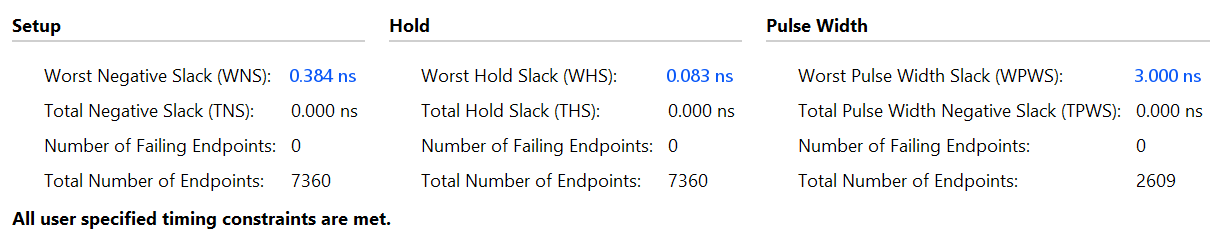
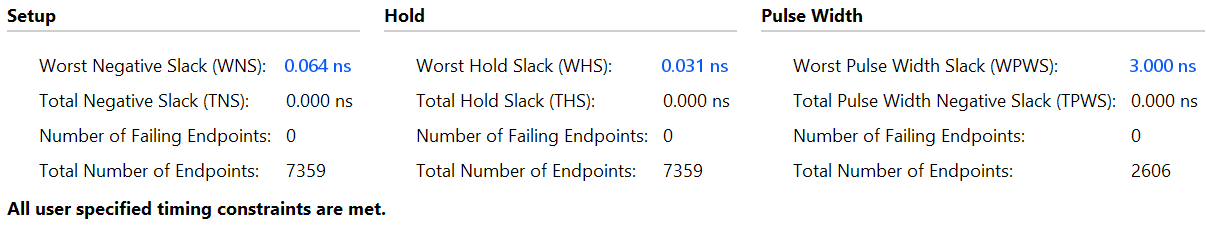
up fmax

diff --git a/contents/abstract/intisari.tex b/contents/abstract/intisari.tex
@@ -4,6 +4,6 @@
 
 \hspace{1cm}Metodologi penelitian meliputi perancangan RTL transmitter I2S menggunakan Verilog HDL, implementasi antarmuka register AXI4-Lite, integrasi ke dalam SoC MicroBlaze~V menggunakan AMD Vivado, pengembangan perangkat lunak bare-metal menggunakan AMD Vitis untuk konfigurasi register dan pengiriman data audio, serta verifikasi melalui simulasi RTL, pengamatan menggunakan osiloskop, dan pengujian perangkat keras menggunakan modul DAC PCM5102A.
 
-\hspace{1cm}Hasil penelitian menunjukkan bahwa IP transmitter I2S berhasil diintegrasikan ke dalam SoC berbasis MicroBlaze~V dan dikendalikan melalui antarmuka AXI4-Lite. Sistem mampu membangkitkan sinyal BCLK, WS, dan DATA yang memenuhi spesifikasi Philips I2S, mentransmisikan data audio stereo dengan benar, serta mendukung frekuensi sampling integer standar maupun non-standar dalam rentang operasi RTL menggunakan satu clock referensi melalui mekanisme \textit{phase accumulator}. Sistem SoC yang diimplementasikan pada FPGA Basys3 menggunakan 903 Slice, 2.435 LUT, 2.330 Flip-Flop, dan 32 BRAM dengan estimasi konsumsi daya total sebesar 0,209~W. Seluruh batasan timing pada clock sistem 100~MHz berhasil dipenuhi.
+\hspace{1cm}Hasil penelitian menunjukkan bahwa IP transmitter I2S berhasil diintegrasikan ke dalam SoC berbasis MicroBlaze~V dan dikendalikan melalui antarmuka AXI4-Lite. Sistem mampu membangkitkan sinyal BCLK, WS, dan DATA yang memenuhi spesifikasi Philips I2S, mentransmisikan data audio stereo dengan benar, serta mendukung frekuensi sampling integer standar maupun non-standar dalam rentang operasi RTL menggunakan satu clock referensi melalui mekanisme \textit{phase accumulator}. Sistem SoC yang diimplementasikan pada FPGA Basys3 menggunakan 903 Slice, 2.435 LUT, 2.330 Flip-Flop, dan 32 BRAM dengan estimasi konsumsi daya total sebesar 0,209~W. Laporan timing menunjukkan WNS sebesar 0,064~ns pada clock 100~MHz, yang setara dengan estimasi frekuensi operasi maksimum sekitar 100,64~MHz.
 \par\vspace{0.8em}
 \noindent\textbf{Kata kunci}: FPGA, Verilog, I2S, AXI4-Lite, MicroBlaze~V, SoC, PCM5102A, Audio Digital.

diff --git a/contents/abstract/abstract.tex b/contents/abstract/abstract.tex
@@ -4,6 +4,6 @@
 
 \hspace{1cm}The proposed methodology consists of RTL design of the I2S transmitter using Verilog HDL, implementation of an AXI4-Lite register interface, integration into a MicroBlaze~V-based SoC using AMD Vivado, development of bare-metal software in AMD Vitis for register configuration and audio sample transmission, and verification through RTL simulation, oscilloscope measurements, and hardware validation using a PCM5102A DAC module.
 
-\hspace{1cm}The results demonstrate that the proposed I2S transmitter IP was successfully integrated into the MicroBlaze~V-based SoC and controlled through the AXI4-Lite interface. The system correctly generated the BCLK, WS, and DATA signals in accordance with the Philips I2S specification, transmitted stereo audio samples reliably, and supported standard and non-standard integer sampling rates within the RTL operating range using a single reference clock. The implemented SoC used 903 slices, 2,435 LUTs, 2,330 flip-flops, and 32 BRAMs on the Basys3 FPGA, with an estimated total on-chip power consumption of 0.209~W. The design also met all timing constraints for the 100~MHz system clock.
+\hspace{1cm}The results demonstrate that the proposed I2S transmitter IP was successfully integrated into the MicroBlaze~V-based SoC and controlled through the AXI4-Lite interface. The system correctly generated the BCLK, WS, and DATA signals in accordance with the Philips I2S specification, transmitted stereo audio samples reliably, and supported standard and non-standard integer sampling rates within the RTL operating range using a single reference clock. The implemented SoC used 903 slices, 2,435 LUTs, 2,330 flip-flops, and 32 BRAMs on the Basys3 FPGA, with an estimated total on-chip power consumption of 0.209~W. The timing report showed a WNS of 0.064~ns at 100~MHz, corresponding to an estimated maximum operating frequency of approximately 100.64~MHz.
 \par\vspace{0.8em}
 \noindent\textbf{Keywords}: FPGA, Verilog HDL, Inter-IC Sound (I2S), AXI4-Lite, MicroBlaze~V, System-on-Chip (SoC), PCM5102A, Digital Audio.

diff --git a/contents/chapter-6/chapter-6.tex b/contents/chapter-6/chapter-6.tex
@@ -4,5 +4,5 @@ Penelitian ini berhasil merancang dan mengimplementasikan \textit{IP core} trans
 
 Implementasi protokol Philips I2S pada IP menghasilkan sinyal BCLK, WS, dan DATA dengan slot 32-bit, bit tunda satu posisi, pengiriman MSB-first, dan padding nol sesuai konfigurasi lebar sampel. Pembangkitan clock berbasis \textit{phase accumulator} mendukung frekuensi sampling integer standar maupun non-standar dalam rentang RTL tanpa pembangkit clock audio khusus.
 
-Hasil sintesis dan implementasi menunjukkan bahwa IP yang dikembangkan menggunakan 903 Slice, 2435 LUT, 2330 Flip-Flop, dan 32 BRAM, dengan estimasi konsumsi daya total sebesar 0,209~W yang terdiri atas daya dinamis sebesar 0,135~W dan daya statis sebesar 0,073~W. Seluruh batasan timing pada clock sistem 100~MHz juga berhasil dipenuhi, menunjukkan bahwa rancangan memenuhi target performa implementasi pada FPGA Basys3.
+Hasil sintesis dan implementasi sistem SoC menunjukkan penggunaan 903 Slice, 2435 LUT, 2330 Flip-Flop, dan 32 BRAM, dengan estimasi konsumsi daya total sebesar 0,209~W yang terdiri atas daya dinamis sebesar 0,135~W dan daya statis sebesar 0,073~W. Laporan timing menunjukkan WNS sebesar 0,064~ns pada clock 100~MHz. Berdasarkan slack tersebut, frekuensi operasi maksimum diperkirakan sekitar 100,64~MHz.
 Secara keseluruhan, penelitian ini menghasilkan IP core I2S berbasis AXI4-Lite yang modular dan dapat dikonfigurasi melalui perangkat lunak. Pengembangan berikutnya dapat menambahkan FIFO TX, DMA atau interupsi, serta dua jalur filter dengan state yang terpisah apabila pemrosesan stereo independen diperlukan.
